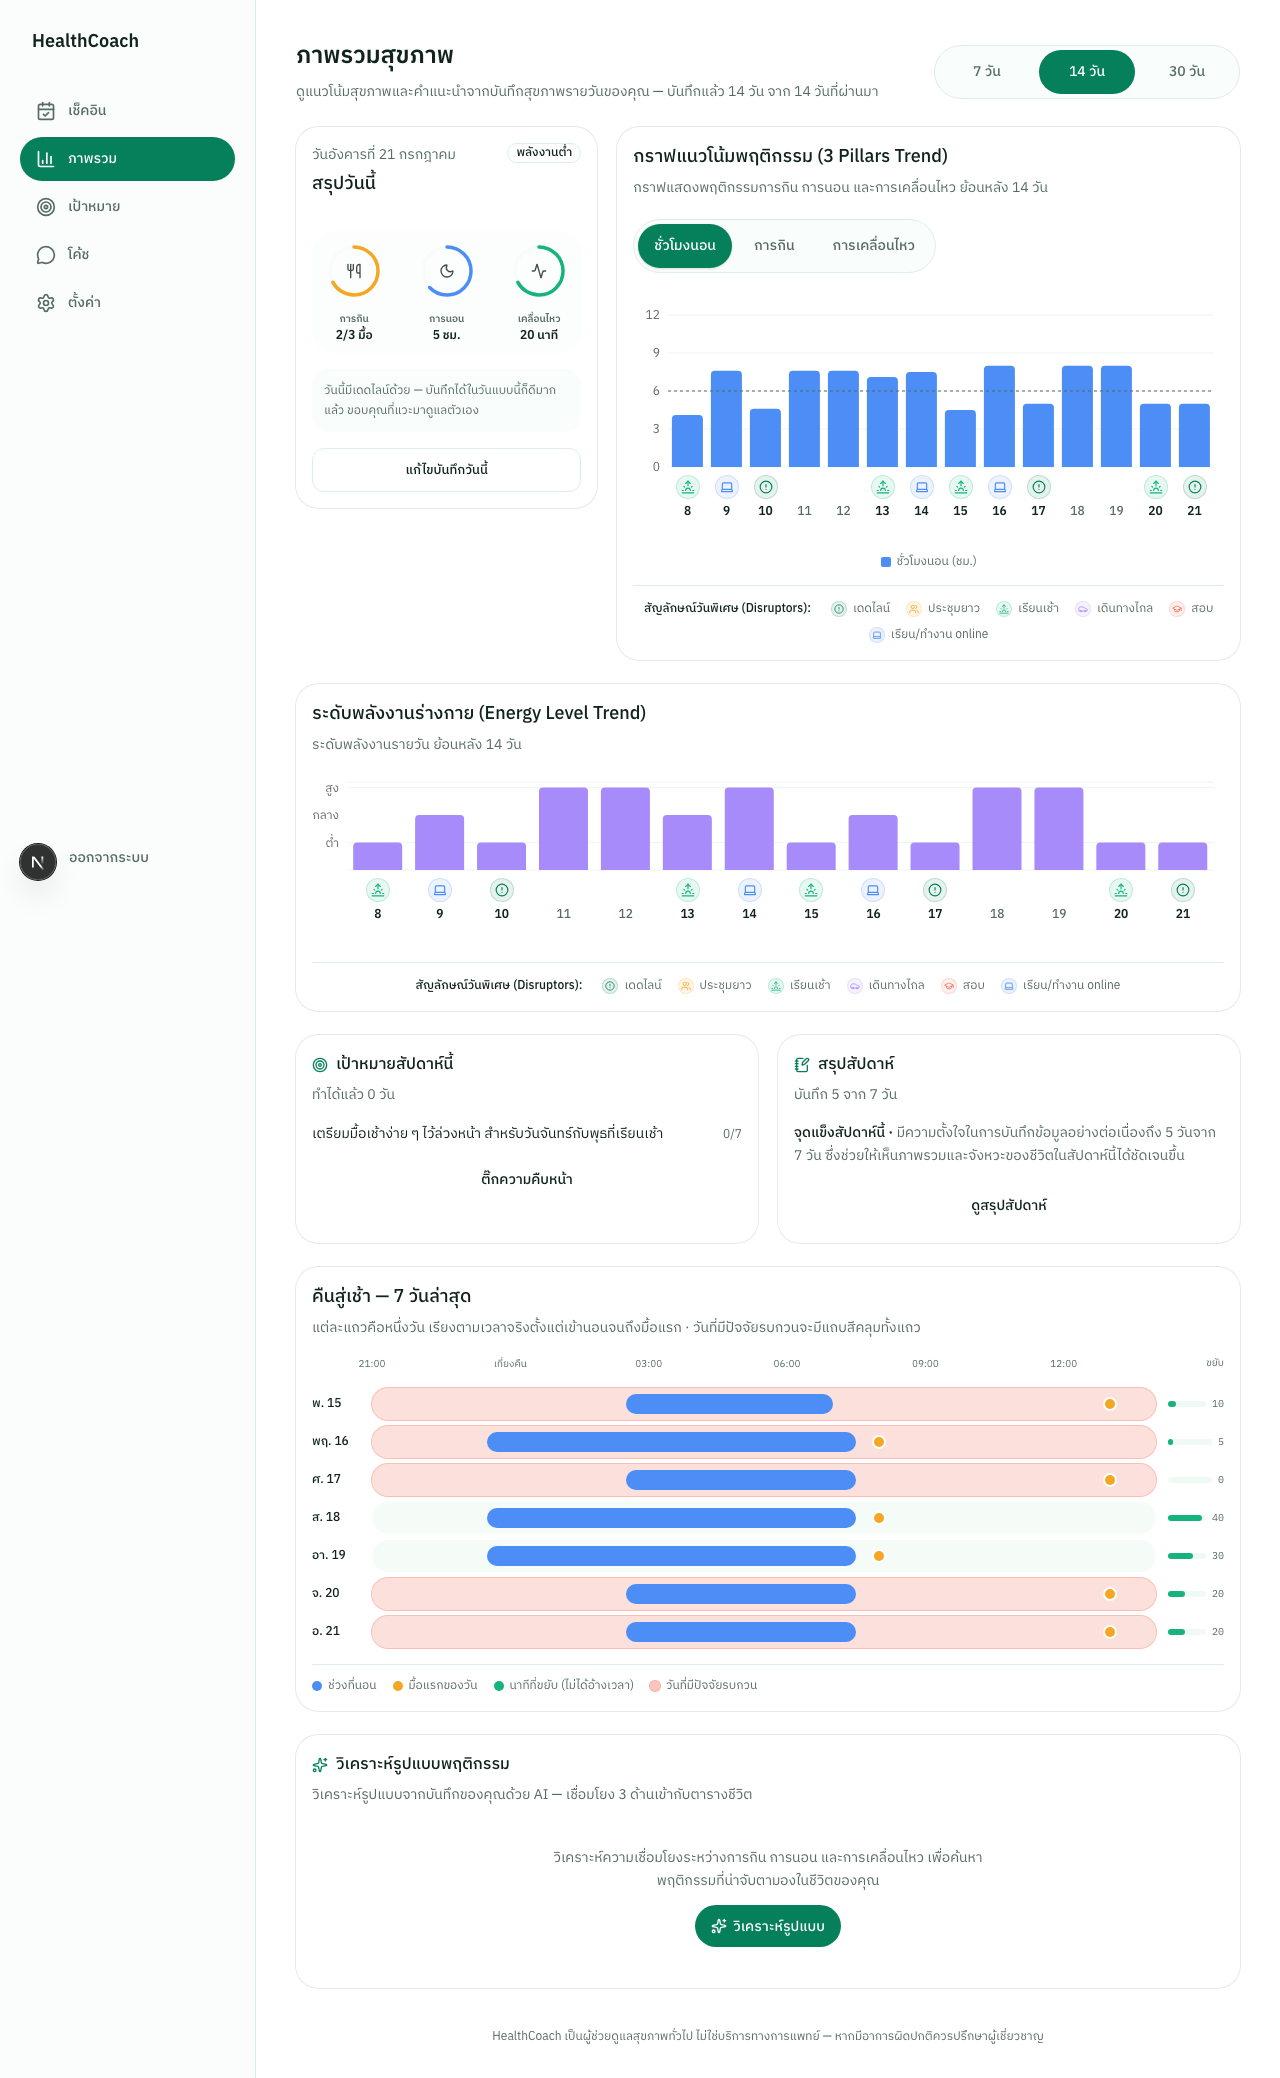
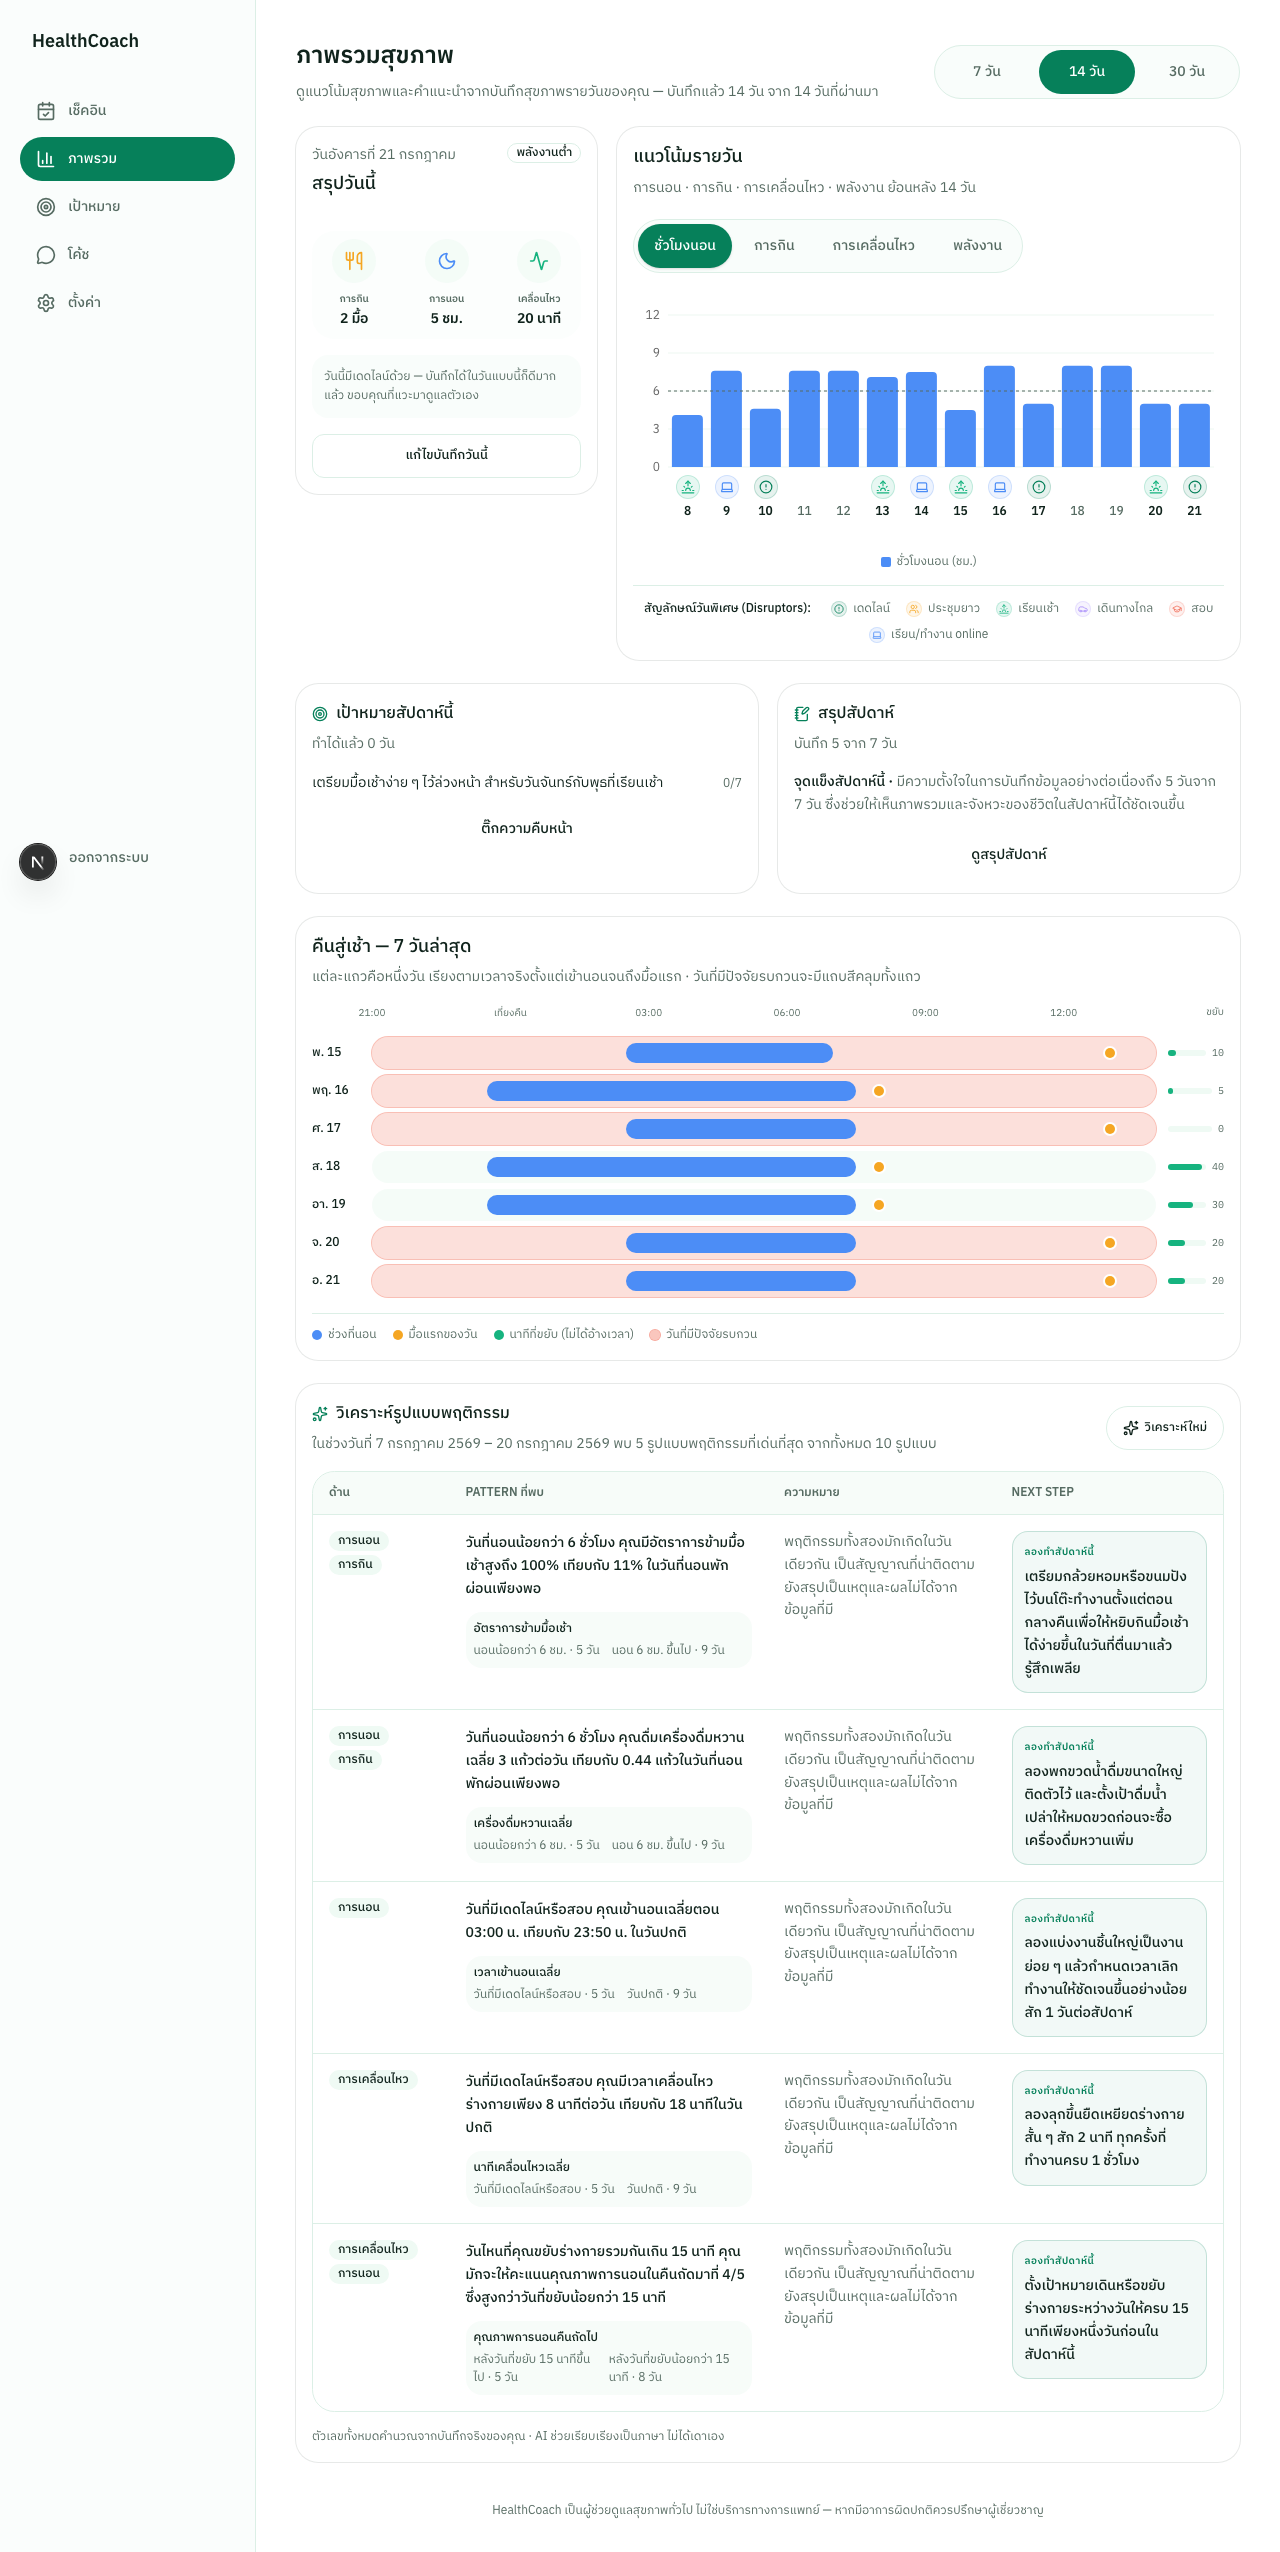
fix(dashboard): drop the target rings from today's summary
The three rings filled toward a max — 3 meals, 8 hours, 30 minutes — and
labelled the first '2/3 มื้อ', which reads as an unmet daily quota. The
app deliberately carries no scores or targets because the brief says the
coach must not pressure or make anyone feel they fell short, and a ring
sitting at two-thirds is exactly that pressure.

They are now plain stat tiles: a coloured pillar icon and the value on
its own — '2 มื้อ', '5 ชม.', '20 นาที' — no denominator, no arc implying
completion. The empty-state line that spoke of 'เป้าหมายประจำวัน' is
reworded to 'ภาพรวมของวันนี้' for the same reason.

diff --git a/src/components/dashboard/today-summary.tsx b/src/components/dashboard/today-summary.tsx
@@ -8,54 +8,28 @@ import { formatThaiDate } from "@/lib/checkins/date";
 import { buildCheckinSummary } from "@/lib/checkins/summary";
 import { cn } from "@/lib/utils";
 
-function ProgressCircle({
-  value,
-  max,
+function StatTile({
   color,
   label,
   valueText,
   icon: Icon,
 }: {
-  value: number;
-  max: number;
   color: string;
   label: string;
   valueText: string;
   icon: React.ComponentType<{ className?: string }>;
 }) {
-  const percentage = max > 0 ? Math.min((value / max) * 100, 100) : 0;
-  const strokeDashoffset = 150.8 - (percentage / 100) * 150.8;
-
   return (
     <div className="flex flex-col items-center gap-2">
-      <div className="relative flex h-16 w-16 items-center justify-center">
-        <svg className="absolute size-full -rotate-90">
-          <circle
-            cx="32"
-            cy="32"
-            r="24"
-            className="stroke-muted/40 dark:stroke-muted/20"
-            strokeWidth="3.5"
-            fill="none"
-          />
-          <circle
-            cx="32"
-            cy="32"
-            r="24"
-            className="transition-all duration-500"
-            style={{ stroke: color }}
-            strokeWidth="3.5"
-            fill="none"
-            strokeDasharray="150.8"
-            strokeDashoffset={strokeDashoffset}
-            strokeLinecap="round"
-          />
-        </svg>
-        <Icon className="size-4 opacity-80" />
+      <div
+        className="flex size-11 items-center justify-center rounded-full bg-muted/60"
+        style={{ color }}
+      >
+        <Icon className="size-5" />
       </div>
       <div className="text-center">
         <p className="text-[10px] font-semibold text-muted-foreground">{label}</p>
-        <p className="text-xs font-bold">{valueText}</p>
+        <p className="text-sm font-bold">{valueText}</p>
       </div>
     </div>
   );
@@ -74,24 +48,18 @@ export function TodaySummary({ checkin, date }: { checkin: Checkin | null; date:
 
   const pillars = [
     {
-      val: checkin?.mealsCount ?? 0,
-      max: 3,
       color: "var(--chart-2)",
       label: "การกิน",
-      text: checkin ? `${checkin.mealsCount}/3 มื้อ` : "--",
+      text: checkin ? `${checkin.mealsCount} มื้อ` : "--",
       icon: Utensils,
     },
     {
-      val: checkin?.sleepHours ?? 0,
-      max: 8,
       color: "var(--chart-1)",
       label: "การนอน",
       text: checkin ? `${checkin.sleepHours} ชม.` : "--",
       icon: Moon,
     },
     {
-      val: checkin?.movementMinutes ?? 0,
-      max: 30,
       color: "var(--chart-3)",
       label: "เคลื่อนไหว",
       text: checkin ? `${checkin.movementMinutes} นาที` : "--",
@@ -111,10 +79,8 @@ export function TodaySummary({ checkin, date }: { checkin: Checkin | null; date:
       <CardContent className="space-y-4">
         <div className="grid grid-cols-3 gap-2 py-2 bg-muted/20 dark:bg-muted/10 rounded-xl">
           {pillars.map((p) => (
-            <ProgressCircle
+            <StatTile
               key={p.label}
-              value={p.val}
-              max={p.max}
               color={p.color}
               label={p.label}
               valueText={p.text}
@@ -125,7 +91,7 @@ export function TodaySummary({ checkin, date }: { checkin: Checkin | null; date:
         <div className="rounded-lg bg-muted/40 p-3 text-xs text-muted-foreground leading-relaxed">
           {checkin
             ? buildCheckinSummary(checkin).encouragement
-            : "คุณยังไม่ได้บันทึกพฤติกรรมสุขภาพของวันนี้ แวะมาเช็คอินสักนิดเพื่อติดตามเป้าหมายประจำวันกันนะ"}
+            : "คุณยังไม่ได้บันทึกพฤติกรรมสุขภาพของวันนี้ แวะมาเช็คอินสักนิดเพื่อดูภาพรวมของวันนี้กันนะ"}
         </div>
         <div>
           <Link